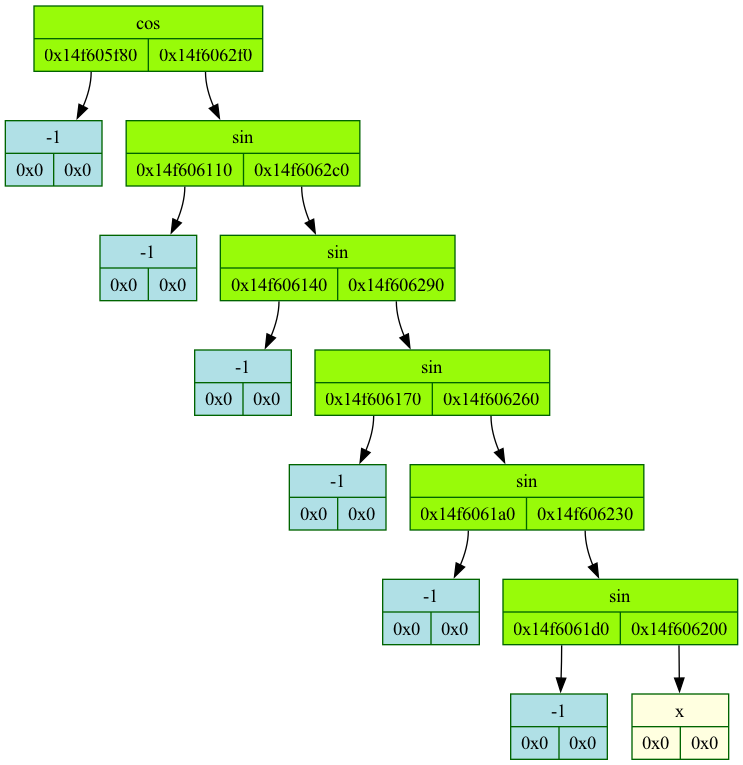
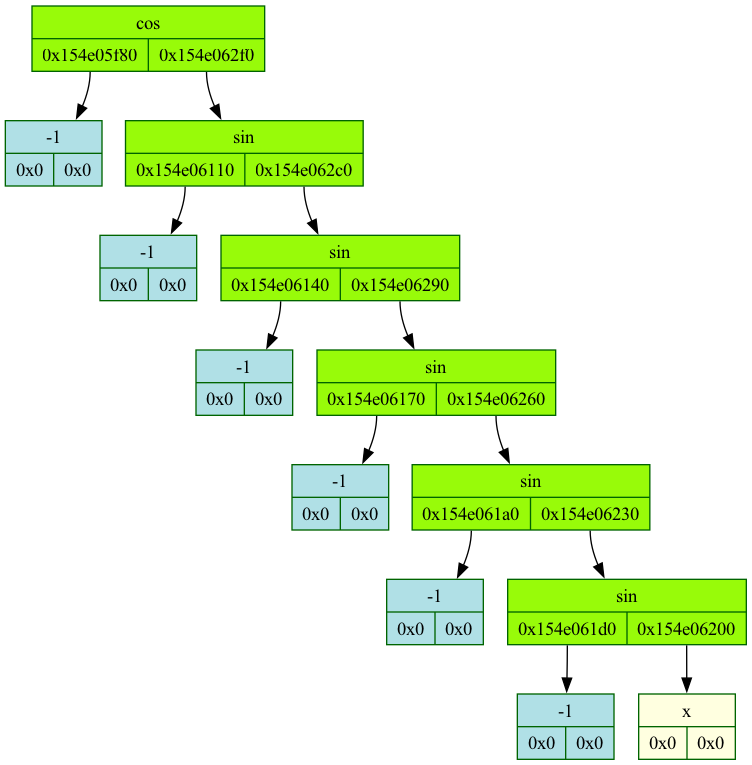
code gen + few changes

diff --git a/log/dump.html b/log/dump.html
@@ -3,8 +3,8 @@
 	ERROR: NO_ERROR
 	Dump called from src/main.cpp:main:24
 	Tree tree born in src/main.cpp:main:14
-	Binary Expression Tree[0x14f605d90]{
-		root = 0x14f606320
+	Binary Expression Tree[0x154e05d90]{
+		root = 0x154e06320
 		 <img src = 0.png width = 50%>
 
 </pre>
@@ -13,8 +13,8 @@
 	ERROR: NO_ERROR
 	Dump called from src/main.cpp:main:26
 	Tree tree born in src/main.cpp:main:14
-	Binary Expression Tree[0x14f605d90]{
-		root = 0x14f606320
+	Binary Expression Tree[0x154e05d90]{
+		root = 0x154e06320
 		 <img src = 1.png width = 50%>
 
 </pre>
@@ -23,8 +23,8 @@
 	ERROR: NO_ERROR
 	Dump called from src/main.cpp:main:32
 	Tree diff_tree born in src/main.cpp:main:29
-	Binary Expression Tree[0x150804080]{
-		root = 0x150804b30
+	Binary Expression Tree[0x154f04080]{
+		root = 0x154f04b30
 		 <img src = 2.png width = 50%>
 
 </pre>

diff --git a/src/read_file.cpp b/src/read_file.cpp
@@ -65,7 +65,7 @@ static Node* prefCreateTree(char** expression, Node* parent, char value[]){
 static Node* infCreateTree(char** expression, Node* parent, char value[]){
     assert(expression);
 
-    Node* node = createNode(NULL, NULL, OPER, (NodeValue){.operation_type = UNKNOWN});
+    Node* node = createNode(NULL, NULL, OPER, (NodeValue){.operation_type = UNKNOWN_OPERATION});
 
     char character = 0;
     sscanf(*expression, " %c", &character);
@@ -94,20 +94,7 @@ static DataType getDataType(char value[]){
 
     if (isdigit(value[0]) || (value[0] == '-' && isdigit(value[1]))) return NUM;
 
-    bool isOper = strcmp(value, "+")    == 0 ||
-                  strcmp(value, "-")    == 0 ||
-                  strcmp(value, "*")    == 0 ||
-                  strcmp(value, "/")    == 0 ||
-                  strcmp(value, "^")    == 0 ||
-                  strcmp(value, "ln")   == 0 ||
-                  strcmp(value, "sin")  == 0 ||
-                  strcmp(value, "cos")  == 0 ||
-                  strcmp(value, "tg")   == 0 ||
-                  strcmp(value, "ctg")  == 0 ||
-                  strcmp(value, "exp")  == 0 ||
-                  strcmp(value, "log")  == 0;
-
-    if (isOper) return OPER;
+    if (getOper(value) != UNKNOWN_OPERATION) return OPER;
 
     return VAR;
 }
@@ -117,22 +104,18 @@ static NodeValue getNodeValue(char value[], DataType data_type){
     if (data_type == VAR) return (NodeValue){.variable = value[0]};
     if (data_type == NUM) return (NodeValue){.number = atof(value)};
 
-    return (NodeValue){.operation_type = UNKNOWN};
+    return (NodeValue){.operation_type = UNKNOWN_OPERATION};
+}
+
+#define _DEF_CMD(name, sign, ...){                  \
+    if (strcmp(value, sign) == 0)    return name;   \
 }
 
 static Operations getOper(char value[]){
-    if (strcmp(value, "+") == 0)    return ADD;
-    if (strcmp(value, "-") == 0)    return SUB;
-    if (strcmp(value, "*") == 0)    return MULT;
-    if (strcmp(value, "/") == 0)    return DIV;
-    if (strcmp(value, "^") == 0)    return POW;
-    if (strcmp(value, "ln") == 0)   return LN;
-    if (strcmp(value, "sin") == 0)  return SIN;
-    if (strcmp(value, "cos") == 0)  return COS;
-    if (strcmp(value, "tg") == 0)   return TAN;
-    if (strcmp(value, "ctg") == 0)  return COT;
-    if (strcmp(value, "exp") == 0)  return EXP;
-    if (strcmp(value, "log") == 0)  return LOG;
 
-    return UNKNOWN;
+   #include "code_gen.h"
+
+    return UNKNOWN_OPERATION;
 }
+
+#undef _DEF_CMD

diff --git a/src/simplification.cpp b/src/simplification.cpp
@@ -37,7 +37,7 @@ Node getTreeValue(Node* root){
 
     if ((root->left == NULL) && (root->type == VAR)){
         result.type                 = OPER;
-        result.value.operation_type = UNKNOWN;
+        result.value.operation_type = UNKNOWN_OPERATION;
 
         return result;
     }
@@ -96,7 +96,7 @@ static int simplifyNode(Node* root){
         case(EXP):  return simplifyPow(root);
         case(LOG):  return simplifyLog(root);
         case(LN):   return simplifyLog(root);
-        default:    return UNKNOWN;
+        default:    return UNKNOWN_OPERATION;
     }
 }
 
@@ -216,7 +216,7 @@ static int simplifyLog(Node* root){
 static Node solveExpression(Node value_left, Node value_right, Operations operation){
     if ((value_left.type == OPER) || (value_right.type == OPER)){
         value_left.type                 = OPER;
-        value_left.value.operation_type = UNKNOWN;
+        value_left.value.operation_type = UNKNOWN_OPERATION;
 
         return value_left;
     }

diff --git a/src/lexer.cpp b/src/lexer.cpp
@@ -191,7 +191,7 @@ static Operations getOper(char value[]){
 
    #include "code_gen.h"
 
-    return UNKNOWN;
+    return UNKNOWN_OPERATION;
 }
 
 #undef _DEF_CMD
@@ -199,7 +199,7 @@ static Operations getOper(char value[]){
 static TokenType getTokenType(char value[]){
     assert(value);
 
-    if (getOper(value) != UNKNOWN) return OPERATION;
+    if (getOper(value) != UNKNOWN_OPERATION) return OPERATION;
 
     return VARIABLE;
 }
@@ -232,7 +232,7 @@ static const char* enumToString(Operations enumerator){
 
     #include "code_gen.h"
 
-    _DEF_CMD(UNKNOWN);
+    _DEF_CMD(UNKNOWN_OPERATION);
     }
 
     return "IDK_YOU_IDIOT";
